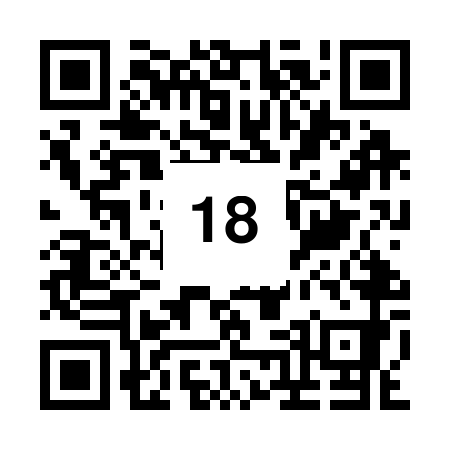
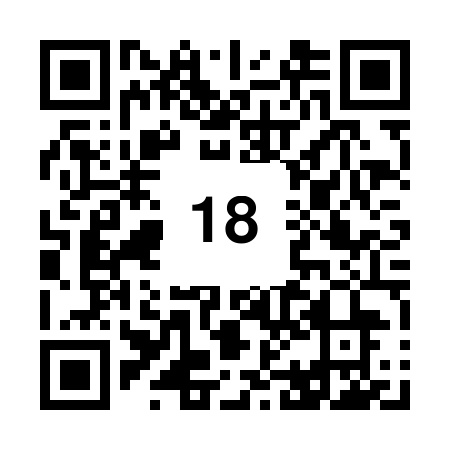
added settings site_url and http_method for qr url creation

Changed region(s): [[0.0622, 0.0622, 0.9333, 0.9333]]

diff --git a/qrback/service.py b/qrback/service.py
@@ -13,11 +13,13 @@ def create_qr(obj, num=None):
     if not os.path.exists(os.path.join(settings.MEDIA_ROOT, 'photos', str(obj.slug))):
         os.makedirs(os.path.join(settings.MEDIA_ROOT, 'photos', str(obj.slug)))
     if num == None:
-        url = pyqrcode.QRCode("http://127.0.0.1" + reverse('menu-detail', args=(obj.slug,)), error='H')
+        url = pyqrcode.QRCode(
+            "{}://{}".format(settings.HTTP_METHOD, settings.SITE_URL) + reverse('menu-detail', args=(obj.slug,)),
+            error='H')
 
     else:
         imgname = os.path.join('photos', str(obj.slug), '{}-{}.png'.format(obj.slug, num))
-        url = pyqrcode.QRCode("http://127.0.0.1" + reverse('menu-detail', args=(obj.slug, num)), error='H')
+        url = pyqrcode.QRCode("{}://{}".format(settings.HTTP_METHOD, settings.SITE_URL) + reverse('menu-detail', args=(obj.slug, num)), error='H')
 
     scale = 10
     url.png(os.path.join(settings.MEDIA_ROOT, imgname), scale=scale)
@@ -55,5 +57,3 @@ def generate_num(num, size):
     d.text(((size[0] - w) / 2, (size[1] - h - h / 2) / 2), str(num), font=font, fill="black")
 
     return img
-
-

diff --git a/qrback/views.py b/qrback/views.py
@@ -78,10 +78,13 @@ def panel(request, slug):
 
 
 def test(request, slug):
-    eid = Entry.objects.filter(company__slug=slug).values('category').distinct()
-    categories = FoodCategory.objects.filter(id__in=eid)
-    context = {'category': Entry.objects.filter(company__slug=slug, category=categories.first())}
-    return render(request, template_name='menu/velidrodnov.html', context=context)
+
+    company = Company.objects.get(slug__exact=slug)
+
+    return render(request, template_name='digitalMenuNotOrder.html',
+                  context={'company': company,
+                           'entries': Entry.objects.filter(company=company.id).order_by('category__group',
+                                                                                        'category__name')})
 
 
 def orderDetail(request, *args, **kwargs):

diff --git a/qrforall/settings.py b/qrforall/settings.py
@@ -119,5 +119,7 @@ USE_TZ = True
 MEDIA_ROOT = os.path.join(BASE_DIR, 'media')
 STATIC_URL = '/static/'
 MEDIA_URL = '/media/'
+HTTP_METHOD = 'http'
+SITE_URL = '192.168.1.3:8000'
 STATICFILES_DIRS = (os.path.join('static'),)
 # STATIC_ROOT = os.path.join(BASE_DIR, 'static')
